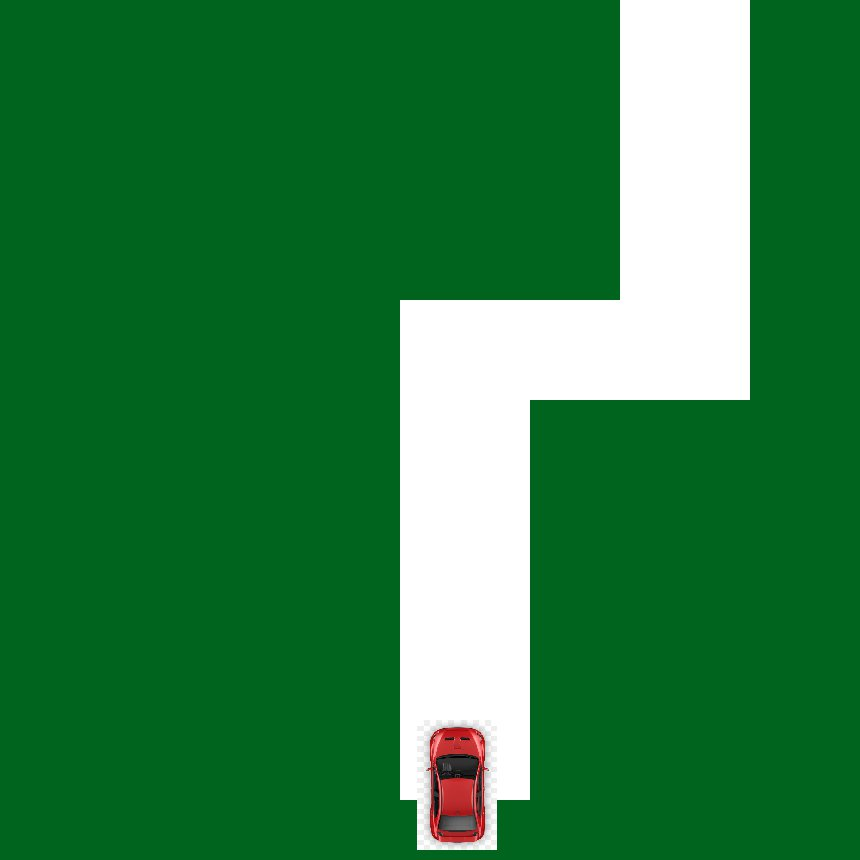
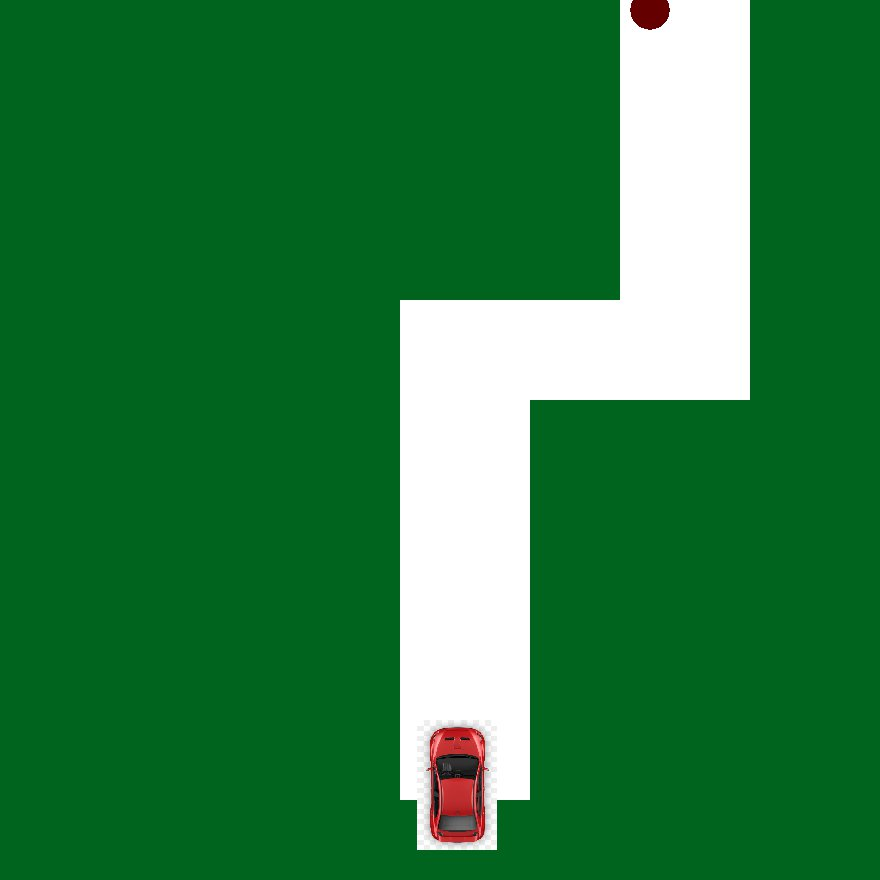
fixed network

Changed region(s): [[0.4535, 0.0, 0.8767, 0.9977]]

diff --git a/network/dqn.py b/network/dqn.py
@@ -1,9 +1,11 @@
 import tensorflow as tf
 import numpy as np
 import random
+from skimage import color
 from collections import deque
 from game.track import *
 from game.car import *
+import matplotlib.pyplot as plt
 
 ###todo get dqn to shoot input ####
 
@@ -40,6 +42,13 @@ class Environment:
     def step(self, action):
         if self.track.car != None:
             self.track.car.control(action)
+            self.state = self.track.save_image()
+
+            #if car near end reward
+            if self.track.car.x - self.track.endPos[0] < 30 and self.track.car.y - self.track.endPos[1] < 30:
+                self.reward = 1
+                self.done = True
+
 
         return self.state, self.reward, self.done, 1
 
@@ -54,21 +63,21 @@ class Environment:
         self.track.drawTrack()
         self.track.update_screen()
         self.state = self.track.save_image()
-        print(self.state)
+        #print(self.state)
         return self.state
 
 
 
 ##create dqn
 input_height = 88
-input_width = 80
+input_width = 88
 input_channels = 1
-conv_n_maps = [32,64,64]
+conv_n_maps = [34,68,68]
 conv_kernel_sizes = [(8,8),(4,4),(3,3)]
 conv_strides = [4,2,1]
 conv_paddings = ["SAME"] * 3
 conv_activation = [tf.nn.relu] * 3
-n_hidden_in = 64 * 11 * 10 #conv3 has 64 maps of 11 * 10 each
+n_hidden_in = 68 * 11 * 11 #conv3 has 64 maps of 11 * 10 each
 n_hidden = 512
 hidden_activation = tf.nn.relu
 n_outputs = 4  #4 discrete actions are available
@@ -151,9 +160,20 @@ eps_decay_steps = 20000
 
 def preprocess_obs(obs):
     #shrink image data
-    img = obs[::2, ::2]
+    obs = obs.reshape(880, 880, 3)
+    img = obs[1:880:10, ::10]
+    #img = color.rgb2gray(img)
     img = img.mean(axis=2)
-    return img.reshape(88, 80, 1)
+    img = np.array(img)
+    img = (img - 128)/ 128 - 1
+    print(img)
+
+    #show image
+    plt.imshow(img, interpolation="nearest")
+    #plt.show()
+
+    return img.reshape(88, 88, 1)
+
 
 
 def epsilon_greedy(q_values, step):
@@ -183,9 +203,15 @@ step = 0 #step
 checkpoint_path = "./my_dqn.ckpt"
 done = True
 
+
 with tf.Session() as sess:
-    tf.global_variables_initializer()
+    if os.path.isfile(checkpoint_path + ".index"):
+        saver.restore(sess, checkpoint_path)
+    else:
+        init.run()
+
     while iteration < n_steps:
+        print(iteration)
         ###todo implement q learning algorithm
         if done:
             obs = env.reset()
@@ -199,12 +225,13 @@ with tf.Session() as sess:
             # online dqn plays
             obs, reward, done, info = env.step(action)
 
-            next_state = obs.reshape(88, 80, 1)
+            next_state = preprocess_obs(obs)
 
             # lets memorize what just happened
             replay_memory.append((state, action, reward, next_state, 1.0 - done))
             state = next_state
             iteration += 1
+
         if iteration < training_start or iteration % training_interval != 0:
             continue
             # only train after warmup period and at regular intervals

diff --git a/game/track.py b/game/track.py
@@ -2,16 +2,19 @@ import pygame
 import os
 import sys
 import game.car as c
+import numpy as np
+from skimage import color
 from PIL import Image
 
 class track:
     def __init__(self):
         self.id = None
         self.screen = None
+        self.endPos = (650, 10)
 
     def drawTrack(self, car=None):
         pygame.init()
-        self.screen = pygame.display.set_mode((860, 860))
+        self.screen = pygame.display.set_mode((880, 880))
         if car == None:
             self.car = c.Car(0)
 
@@ -51,6 +54,7 @@ class track:
         pygame.draw.rect(self.screen, (255, 255, 255), [400, 300, 130, 500])
         pygame.draw.rect(self.screen, (255, 255, 255), [400, 300, 350, 100])
         pygame.draw.rect(self.screen, (255, 255, 255), [620, 0, 130, 400])
+        pygame.draw.circle(self.screen, (100, 0, 0), (650, 10), 20)
         self.drawCar()
         pygame.display.flip()
 
@@ -62,7 +66,7 @@ class track:
         self.count = 0
         pygame.image.save(self.screen, "../game/images/track" + str(self.count) + ".jpg")
         pic =  Image.open("../game/images/track" + str(self.count) + ".jpg")
-        pic = list(pic.getdata())
+        pic = np.array(pic.getdata())
         return pic
 
 

diff --git a/game/car.py b/game/car.py
@@ -20,6 +20,7 @@ class Car:
 
     def control(self, direction):
         #up
+        print("in control " )
         if direction == 0:
             self.y -= 10
 
